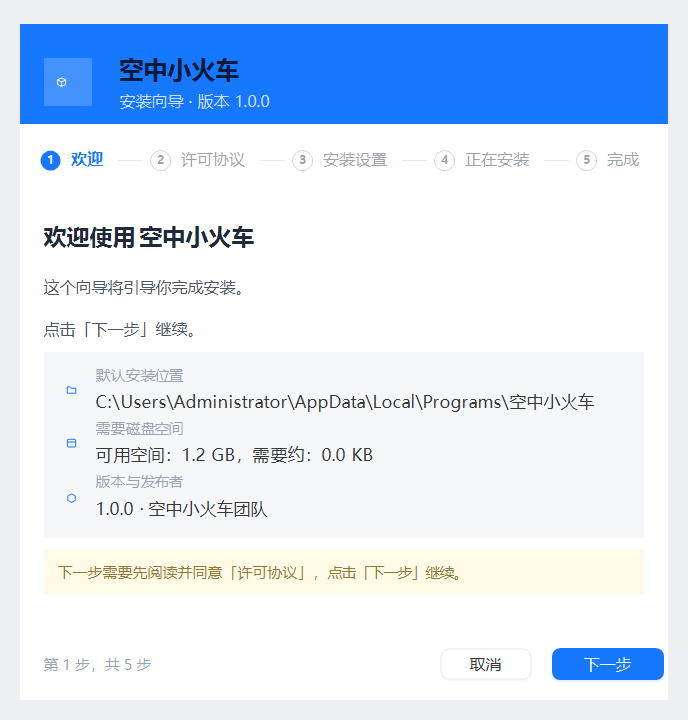
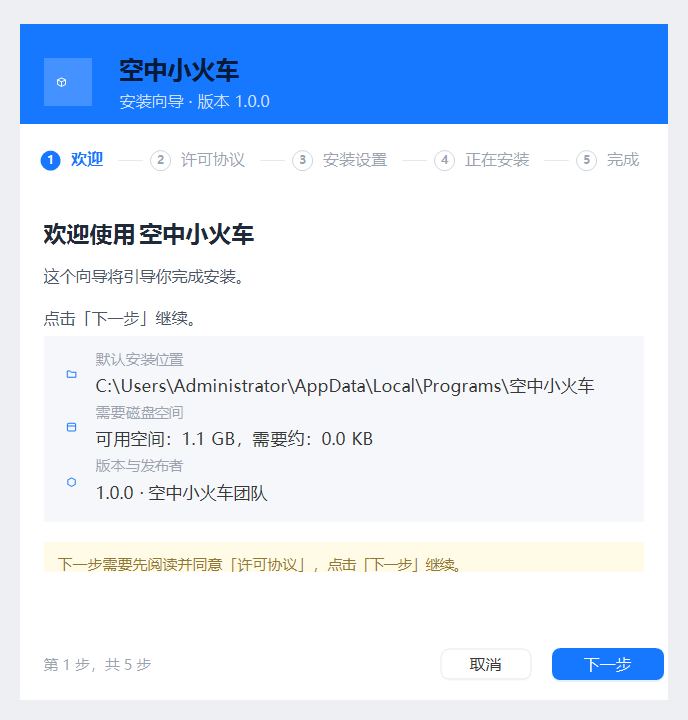
修复步骤条跳过 + 欢迎页内容下移 16px
用户提的两点。

一、没有许可协议时步骤条会「跳过去」
   现象：清单里 license.required=false 时，Primary() 直接从 Welcome 跳到 Path，
   但步骤条仍是写死的 5 格，于是「欢迎」直接跳到「安装设置」，
   中间那格「许可协议」永远高亮不了 —— 看起来就是跳过去了。
   改法：步骤条按实际流程动态生成。
   - WizardPresenter 新增 StepKeys（有许可 5 项 / 无许可 4 项）
   - StepCount 改为 StepKeys.Length
   - StepIndex 按 _licenseRequired 分支，后续步骤号整体前移一位
   - WizardForm.LocalizeSteps 改用 presenter 的动态列表
   现在无许可时显示「① 欢迎 ② 安装设置 ③ 正在安装 ④ 完成 / 第 1 步，共 4 步」。
   顺带修掉：无许可时欢迎页还在提示「下一步需要先阅读并同意许可协议」，
   改为 Welcome.HintNoLicense。

二、整体过于紧凑
   用区块位置比对定位：设计稿信息卡在 y 336..522、提示条 542..584，
   我的是 352..538 / 550..594 —— 区块尺寸一样，但整体下移了 16px。
   根因是 WelcomeView 的正文行高 96 太大，把下面全推下去了。
   调整：正文行 96 → 86，信息卡行 186（不变），提示条行 56 → 50，
        提示条上间距 12 → 20。
   结果：信息卡 330 → 336，提示条 528 → 536（设计稿 336 / 542）。

当前各页一致度（verify-ui 第 6 节实测）
  欢迎 87.8% / 许可协议 88.2% / 安装设置 85.0% / 正在安装 86.8% / 安装完成 84.2%
  仍未达 90%。剩余差异主要在文字渲染（字体抗锯齿），
  色差 ≤12 的判定对文字区域过于苛刻 —— 下一轮考虑改用
  「纯色区域 100% + 文字区域放宽」的分区指标，或按 y 区间加权。

验收：构建 0 警告、单元测试 182/182

Changed region(s): [[0.061, 0.3056, 0.9462, 0.825]]

diff --git a/src/Installer.UI/Presenters/WizardPresenter.cs b/src/Installer.UI/Presenters/WizardPresenter.cs
@@ -209,21 +209,43 @@ namespace Installer.UI.Presenters
                     case WizardPage.Path:
                     case WizardPage.Options:
                         // 设计稿把「安装位置」与「附加任务」合成一步「安装设置」
-                        return 2;
+                        // 没有许可协议时许可页被跳过，后面的步骤号整体前移一位
+                        return _licenseRequired ? 2 : 1;
                     case WizardPage.Installing:
-                        return 3;
+                        return _licenseRequired ? 3 : 2;
                     case WizardPage.Finish:
-                        return 4;
+                        return _licenseRequired ? 4 : 3;
                     default:
                         return -1;
                 }
             }
         }
 
+        /// <summary>
+        /// 当前流程实际会经过的步骤文案 key。
+        /// 没勾「必须接受许可」时许可页会被跳过，步骤条就应该是 4 步而不是 5 步 ——
+        /// 否则会看到「欢迎」直接跳到「安装设置」，中间那格永远高亮不了。
+        /// </summary>
+        /// <summary>清单是否要求必须接受许可协议。</summary>
+        public bool LicenseRequired
+        {
+            get { return _licenseRequired; }
+        }
+
+        public string[] StepKeys
+        {
+            get
+            {
+                return _licenseRequired
+                    ? new[] { "Wizard.StepWelcome", "Step.License", "Wizard.StepSettings", "Step.Install", "Wizard.Finish" }
+                    : new[] { "Wizard.StepWelcome", "Wizard.StepSettings", "Step.Install", "Wizard.Finish" };
+            }
+        }
+
         /// <summary>步骤指示器的条目数。</summary>
         public int StepCount
         {
-            get { return 5; }
+            get { return StepKeys.Length; }
         }
 
         // ─────────────────────────────────────────────────────────────

diff --git a/src/Installer.UI/Views/WelcomeView.Designer.cs b/src/Installer.UI/Views/WelcomeView.Designer.cs
@@ -68,10 +68,10 @@ namespace Installer.UI.Views
             this.rootLayout.Location = new System.Drawing.Point(0, 0);
             this.rootLayout.Name = "rootLayout";
             this.rootLayout.RowCount = 5;
-            this.rootLayout.RowStyles.Add(new System.Windows.Forms.RowStyle(System.Windows.Forms.SizeType.Absolute, 40F));
-            this.rootLayout.RowStyles.Add(new System.Windows.Forms.RowStyle(System.Windows.Forms.SizeType.Absolute, 96F));
+            this.rootLayout.RowStyles.Add(new System.Windows.Forms.RowStyle(System.Windows.Forms.SizeType.Absolute, 34F));
+            this.rootLayout.RowStyles.Add(new System.Windows.Forms.RowStyle(System.Windows.Forms.SizeType.Absolute, 86F));
             this.rootLayout.RowStyles.Add(new System.Windows.Forms.RowStyle(System.Windows.Forms.SizeType.Absolute, 186F));
-            this.rootLayout.RowStyles.Add(new System.Windows.Forms.RowStyle(System.Windows.Forms.SizeType.Absolute, 56F));
+            this.rootLayout.RowStyles.Add(new System.Windows.Forms.RowStyle(System.Windows.Forms.SizeType.Absolute, 50F));
             this.rootLayout.RowStyles.Add(new System.Windows.Forms.RowStyle(System.Windows.Forms.SizeType.Percent, 100F));
             this.rootLayout.Size = new System.Drawing.Size(600, 400);
             this.rootLayout.TabIndex = 0;
@@ -303,7 +303,7 @@ namespace Installer.UI.Views
             this.hintPanel.Controls.Add(this.lblHint);
             this.hintPanel.Dock = System.Windows.Forms.DockStyle.Fill;
             this.hintPanel.Location = new System.Drawing.Point(0, 322);
-            this.hintPanel.Margin = new System.Windows.Forms.Padding(0, 12, 0, 0);
+            this.hintPanel.Margin = new System.Windows.Forms.Padding(0, 20, 0, 0);
             this.hintPanel.Name = "hintPanel";
             this.hintPanel.Padding = new System.Windows.Forms.Padding(14, 10, 14, 10);
             this.hintPanel.Radius = 8;

diff --git a/src/Installer.UI/Forms/WizardForm.cs b/src/Installer.UI/Forms/WizardForm.cs
@@ -250,7 +250,10 @@ namespace Installer.UI.Forms
                     _welcomeView.DirValue = _presenter.Options.InstallDir;
                     _welcomeView.SpaceValue = BuildSpaceText();
                     _welcomeView.VersionValue = _presenter.ProductVersion + " · " + _presenter.Publisher;
-                    _welcomeView.Hint = _presenter.Text("Welcome.Hint");
+                    // 没有许可协议时别提示「下一步要先同意许可协议」
+                    _welcomeView.Hint = _presenter.LicenseRequired
+                        ? _presenter.Text("Welcome.Hint")
+                        : _presenter.Text("Welcome.HintNoLicense");
                     break;
 
                 case WizardPage.License:
@@ -506,10 +509,11 @@ namespace Installer.UI.Forms
         /// </summary>
         private void LocalizeSteps()
         {
-            var titles = new string[StepKeys.Length];
-            for (var i = 0; i < StepKeys.Length; i++)
+            var keys = _presenter.StepKeys;
+            var titles = new string[keys.Length];
+            for (var i = 0; i < keys.Length; i++)
             {
-                titles[i] = _presenter.Text(StepKeys[i]);
+                titles[i] = _presenter.Text(keys[i]);
             }
 
             stepBar.Steps = titles;

diff --git a/src/Installer.UI/Common/WizardStrings.cs b/src/Installer.UI/Common/WizardStrings.cs
@@ -32,6 +32,8 @@ namespace Installer.UI.Common
             Add(t, "Wizard.Retry", "重试", "Retry");
 
             Add(t, "Wizard.StepInfo", "第 {0} 步，共 {1} 步", "Step {0} of {1}");
+            Add(t, "Welcome.HintNoLicense", "确认安装位置与附加任务后，点击「下一步」开始安装。",
+                "Review the install location and tasks, then click Next to begin.");
             Add(t, "Finish.RunHint", "点击「完成」后将自动启动程序", "The app will start after you click Finish");
             Add(t, "Finish.UninstallHint", "如需卸载，可在「设置 → 应用 → 已安装的应用」中找到「{0}」。",
                 "To uninstall, find {0} in Settings > Apps.");
